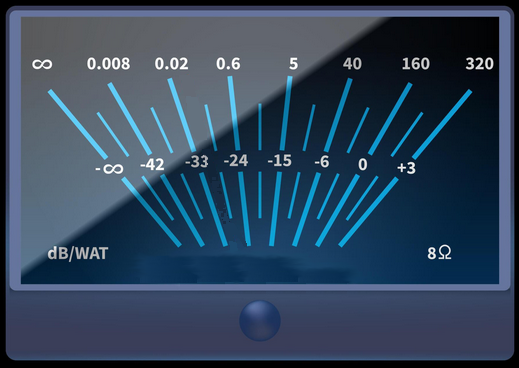
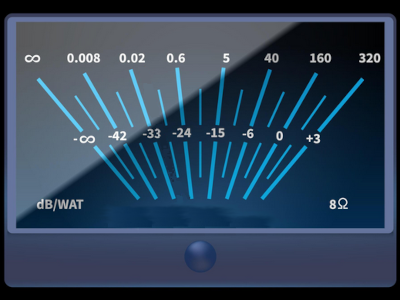
update vu-meters page

diff --git a/app/vu-meters/page.tsx b/app/vu-meters/page.tsx
@@ -3,8 +3,7 @@ import Image from "next/image";
 import { useEffect, useState } from "react";
 import dynamic from "next/dynamic";
 const GaugeComponent = dynamic(() => import('react-gauge-component'), { ssr: false });
-
-var sIndex:number = 1;
+import { io } from "socket.io-client";
 
 
 interface imageType {  // typing for the "image" object
@@ -17,7 +16,7 @@ interface vuMeterConfig {
     readonly pointerLen: number;
     readonly pointerColor: string;
     readonly pointerWidth: number;
-    readonly pointerBase: boolean;
+    readonly windowsHeigt: number;    
 }
 
 var img : imageType = {
@@ -29,18 +28,25 @@ var img : imageType = {
   }
 
 var vu_config : vuMeterConfig[] = [
-    {minAngle: -45, maxAngle: 45, pointerLen: 200, pointerColor: "white", pointerWidth: 8, pointerBase: true},
-    {minAngle: -35, maxAngle: 35, pointerLen: 200, pointerColor: "white", pointerWidth: 8, pointerBase: true},
-    {minAngle: -40, maxAngle: 40, pointerLen: 200, pointerColor: "white", pointerWidth: 8, pointerBase: true},
-    {minAngle: -25, maxAngle: 30, pointerLen: 200, pointerColor: "white", pointerWidth: 8, pointerBase: true},
-    {minAngle: -40, maxAngle: 40, pointerLen: 200, pointerColor: "white", pointerWidth: 8, pointerBase: true}
+    {minAngle: -44, maxAngle: 44, pointerLen: 180, pointerColor: "blue", pointerWidth: 8, windowsHeigt: 200},
+    {minAngle: -37, maxAngle: 37, pointerLen: 170, pointerColor: "red", pointerWidth: 8, windowsHeigt: 250},
+    {minAngle: -41, maxAngle: 41, pointerLen: 200, pointerColor: "purple", pointerWidth: 8, windowsHeigt: 250},
+    {minAngle: -30, maxAngle: 33, pointerLen: 180, pointerColor: "white", pointerWidth: 8, windowsHeigt: 245},
+    {minAngle: -33, maxAngle: 33, pointerLen: 230, pointerColor: "white", pointerWidth: 6, windowsHeigt: 230}
 ]
   
-const MAX_NOF_IMAGES = 5
-const MIN_VU_INTPUT =  0
-const MAX_VU_INPUT =  32767
-var VU_DECAY_SPEED = 8;
+const MAX_NOF_IMAGES = 5;
+const MIN_VU_INTPUT =  0;
+const MAX_VU_INPUT =  100;
+const POINTER_Y_ORIGIN = 280;
+const POINTER_X_CENTER = 200;
+const VU_DECAY_SPEED = 8;
 
+var sIndex:number = 1;
+var listenPort = Number(process.env.NEXT_PUBLIC_LISTEN_PORT) + 2; // Setup the websocket
+var socket:any; 
+var prev_vu_l_val = vu_config[sIndex-1].minAngle;
+var prev_vu_r_val = vu_config[sIndex-1].minAngle;
 
 
 export default function Vu_meters() {
@@ -49,40 +55,46 @@ export default function Vu_meters() {
     const [vuRightAngle, setvuRightAngle] = useState(vu_config[sIndex-1].minAngle);
     
     useEffect (() => {
+        socket = io(`http://localhost:${listenPort}`);
+      }, []);
+
+    useEffect (() => {
         const timer = setInterval(() => {
-            if (vuLeftAngle > vu_config[sIndex-1].minAngle) {setvuLeftAngle(vuLeftAngle - VU_DECAY_SPEED)};
-            if (vuRightAngle > vu_config[sIndex-1].minAngle) {setvuRightAngle(vuRightAngle - VU_DECAY_SPEED)};
+            setvuLeftAngle(prev_vu_l_val);
+            setvuRightAngle(prev_vu_r_val);
+            if (prev_vu_l_val > vu_config[sIndex-1].minAngle) {prev_vu_l_val -= VU_DECAY_SPEED};
+            if (prev_vu_r_val > vu_config[sIndex-1].minAngle) {prev_vu_r_val -= VU_DECAY_SPEED};
         }, 50);
+
+        socket.on("vu_data", function(payload:any) {
+            animate_vu("left", payload[0]);
+            animate_vu("right", payload[1]);
+        });
+    
         return () => clearInterval(timer);
-      }, [vuLeftAngle, vuRightAngle, sIndex, VU_DECAY_SPEED]);
+      }, [sIndex, vu_config, prev_vu_l_val, prev_vu_r_val]);
       
-    function maxMeter() {
-        animate_vu("left", 32766);
-        animate_vu("right", 32766);
-        VU_DECAY_SPEED = 0;
-    }
-    function minMeter() {
-        VU_DECAY_SPEED = 8;
-    }
 
     function previousMeter() {
-        sIndex -= 1;
-        if (sIndex < 1) {
+        if (sIndex == 1) {
             sIndex = MAX_NOF_IMAGES;
+        } else {
+            sIndex -= 1;
         }
         setImgIndex(sIndex);
-        animate_vu("left", 15350);
-        animate_vu("right", 15350);
+        animate_vu("left", 50);
+        animate_vu("right", 50);
     }
     
     function nextMeter() {
-        sIndex += 1;
-        if (sIndex > MAX_NOF_IMAGES) {
+        if (sIndex == MAX_NOF_IMAGES) {
             sIndex = 1;
+        } else {
+            sIndex += 1;
         }
         setImgIndex(sIndex);
-        animate_vu("left", 15000);
-        animate_vu("right", 15000);
+        animate_vu("left", 50);
+        animate_vu("right", 50);
       }
 
       function animate_vu(side:string, val:number) {
@@ -93,13 +105,15 @@ export default function Vu_meters() {
         var scaled = scale(val, MIN_VU_INTPUT, MAX_VU_INPUT, vu_config[sIndex-1].minAngle, vu_config[sIndex-1].maxAngle);
 
         if (side === "left") {
-            setvuLeftAngle(scaled);
+            if (scaled > prev_vu_l_val)
+                prev_vu_l_val = scaled;
         }
         else if (side === "right") {
-            setvuRightAngle(scaled);
+            if (scaled > prev_vu_r_val)
+                prev_vu_r_val = scaled;
         }
         else {
-            console.log("ERROR: animate_vu with wrong side argument (" + side + ")!!!");
+            console.log("ERROR: animate_vu with wrong side (R/L) argument (" + side + ")!!!");
         }
       }
 
@@ -131,17 +145,22 @@ export default function Vu_meters() {
                         <span className="col-[1] row-[1] mt-10">
                             <Image src={img[imgIndex.toString()]} alt="VU-L" width={400} height={300}/>
                         </span>
-                        <span className="col-[1] row-[1] mt-10 z-10" onClick={minMeter}>
-                        <svg height="300" width="400" xmlns="http://www.w3.org/2000/svg">
+                        <span className="col-[1] row-[1] mt-10 z-10">
+                        <svg xmlns="http://www.w3.org/2000/svg" width="400" height={`${vu_config[imgIndex-1].windowsHeigt.toString()}`}>
                                 <defs>
                                     <filter id="f1">
-                                    <feDropShadow dx="3" dy="10" stdDeviation="1" floodOpacity="0.7"/>
+                                    <feDropShadow dx="5" dy="-5" stdDeviation="1" floodOpacity="0.7" floodColor="lightgrey"/>
                                     </filter>
                                 </defs>
-                                <rect width={`${vu_config[imgIndex-1].pointerWidth.toString()}`} height={`${vu_config[imgIndex-1].pointerLen.toString()}`} 
-                                      x="196" y="80" rx="5" ry="5" fill={`${vu_config[imgIndex-1].pointerColor}`} filter="url(#f1)" 
-                                      transform={`rotate(${vuLeftAngle.toString()}, 200, 280)`}/>
-                                <circle r="15" cx="200" cy="280" fill="#000000" stroke="#F00F0F" strokeWidth="3" filter="url(#f1)"/>
+                                <rect width={`${vu_config[imgIndex-1].pointerWidth.toString()}`} 
+                                      height={`${vu_config[imgIndex-1].pointerLen.toString()}`} 
+                                      x={`${POINTER_X_CENTER - (vu_config[imgIndex-1].pointerWidth / 2)}`.toString()}
+                                      y={`${POINTER_Y_ORIGIN - vu_config[imgIndex-1].pointerLen}`.toString()} 
+                                      rx="5" ry="5" 
+                                      fill={`${vu_config[imgIndex-1].pointerColor}`} 
+                                      filter="url(#f1)"
+                                      transform={`rotate(${vuLeftAngle.toString()}, ${POINTER_X_CENTER}, ${POINTER_Y_ORIGIN})`}
+                                    />
                             </svg>
                         </span>
                     </li>
@@ -149,17 +168,22 @@ export default function Vu_meters() {
                         <span className="col-[1] row-[1] mt-10">
                             <Image src={img[imgIndex.toString()]} alt="VU-R" width={400} height={300}/>
                         </span>
-                        <span className="col-[1] row-[1] mt-10 z-10" onClick={maxMeter}>
-                            <svg height="300" width="400" xmlns="http://www.w3.org/2000/svg">
+                        <span className="col-[1] row-[1] mt-10 z-10">
+                            <svg xmlns="http://www.w3.org/2000/svg" width="400" height={`${vu_config[imgIndex-1].windowsHeigt.toString()}`}>
                                 <defs>
-                                    <filter id="f1">
-                                    <feDropShadow dx="3" dy="8" stdDeviation="1" floodOpacity="0.7"/>
+                                    <filter id="f2">
+                                    <feDropShadow dx="5" dy="-5" stdDeviation="1" floodOpacity="0.7" floodColor="lightgrey"/>
                                     </filter>
                                 </defs>
-                                <rect width={`${vu_config[imgIndex-1].pointerWidth.toString()}`} height={`${vu_config[imgIndex-1].pointerLen.toString()}`} 
-                                      x="196" y="80" rx="3" ry="3" fill={`${vu_config[imgIndex-1].pointerColor}`} filter="url(#f1)" 
-                                      transform={`rotate(${vuRightAngle.toString()}, 200, 280)`}/>
-                                <circle r="15" cx="200" cy="280" fill="#000000" stroke="#F00F0F" strokeWidth="3" filter="url(#f1)"/>
+                                <rect width={`${vu_config[imgIndex-1].pointerWidth.toString()}`} 
+                                      height={`${vu_config[imgIndex-1].pointerLen.toString()}`} 
+                                      x={`${POINTER_X_CENTER - (vu_config[imgIndex-1].pointerWidth / 2)}`.toString()}
+                                      y={`${POINTER_Y_ORIGIN - vu_config[imgIndex-1].pointerLen}`.toString()} 
+                                      rx="5" ry="5" 
+                                      fill={`${vu_config[imgIndex-1].pointerColor}`} 
+                                      filter="url(#f2)" 
+                                      transform={`rotate(${vuRightAngle.toString()}, ${POINTER_X_CENTER}, ${POINTER_Y_ORIGIN})`}
+                                    />
                             </svg>
                         </span>
                     </li>

diff --git a/server.js b/server.js
@@ -26,7 +26,7 @@ var zoneList = [];
 var webSock;
 var selected_zone_id;
 var ir_recv_fifo_name = "./ir_fifo"
-
+var vu_meter_fifo_name = "/tmp/myfifo"
 
 // Read config file
 if (EnvPort) {
@@ -35,11 +35,17 @@ if (EnvPort) {
   var listenPort = 3000;
 }
 var webSocketPort = listenPort + 1;
+var ws_port_vu = listenPort + 2;
 
 var webSock = require("socket.io")(webSocketPort, {
     cors: {
-      origin: [`http://${hostname}:${listenPort}`],
+      origin: [`http://${hostname}:${webSocketPort}`],
     },});
+
+var webSockVU = require("socket.io")(ws_port_vu, {
+  cors: {
+    origin: [`http://${hostname}:${ws_port_vu}`],
+  },});
 
 // when using middleware `hostname` and `port` must be provided below
 const app = next({ dev })
@@ -53,6 +59,33 @@ exec("rm -f " + ir_recv_fifo_name + "; mkfifo " + ir_recv_fifo_name, function(er
 });
 
 
+webSockVU.on("connection", function(socket) {
+
+  fs.open(vu_meter_fifo_name, fs.constants.O_RDWR | fs.constants.O_NONBLOCK, (err, fd) => {
+    const pipe = new net.Socket({ fd });
+    // Now `pipe` is a stream that can be used for reading from the FIFO.
+    pipe.on('data', (data) => {
+      // process data ...
+        var uint16Arr = convert(data);
+        webSockVU.emit("vu_data", uint16Arr);
+    });
+
+    // Handle err
+    if (err) {
+      console.error('Error occurred handling FIFO', err)
+    }
+  });
+
+  function convert(byteArray) {
+    var value = [];
+    for (var i = 0, k = 0; i < byteArray.length; i += 2, k++) {
+        value[k] = ( byteArray[i+1] * 256) + byteArray[i];
+    }
+
+    return value;
+  };
+
+});
 
 
 
@@ -386,7 +419,6 @@ webSock.on("connection", function(socket) {
     transport.control(msg, "stop");
   });
 });
-
 
 
 
